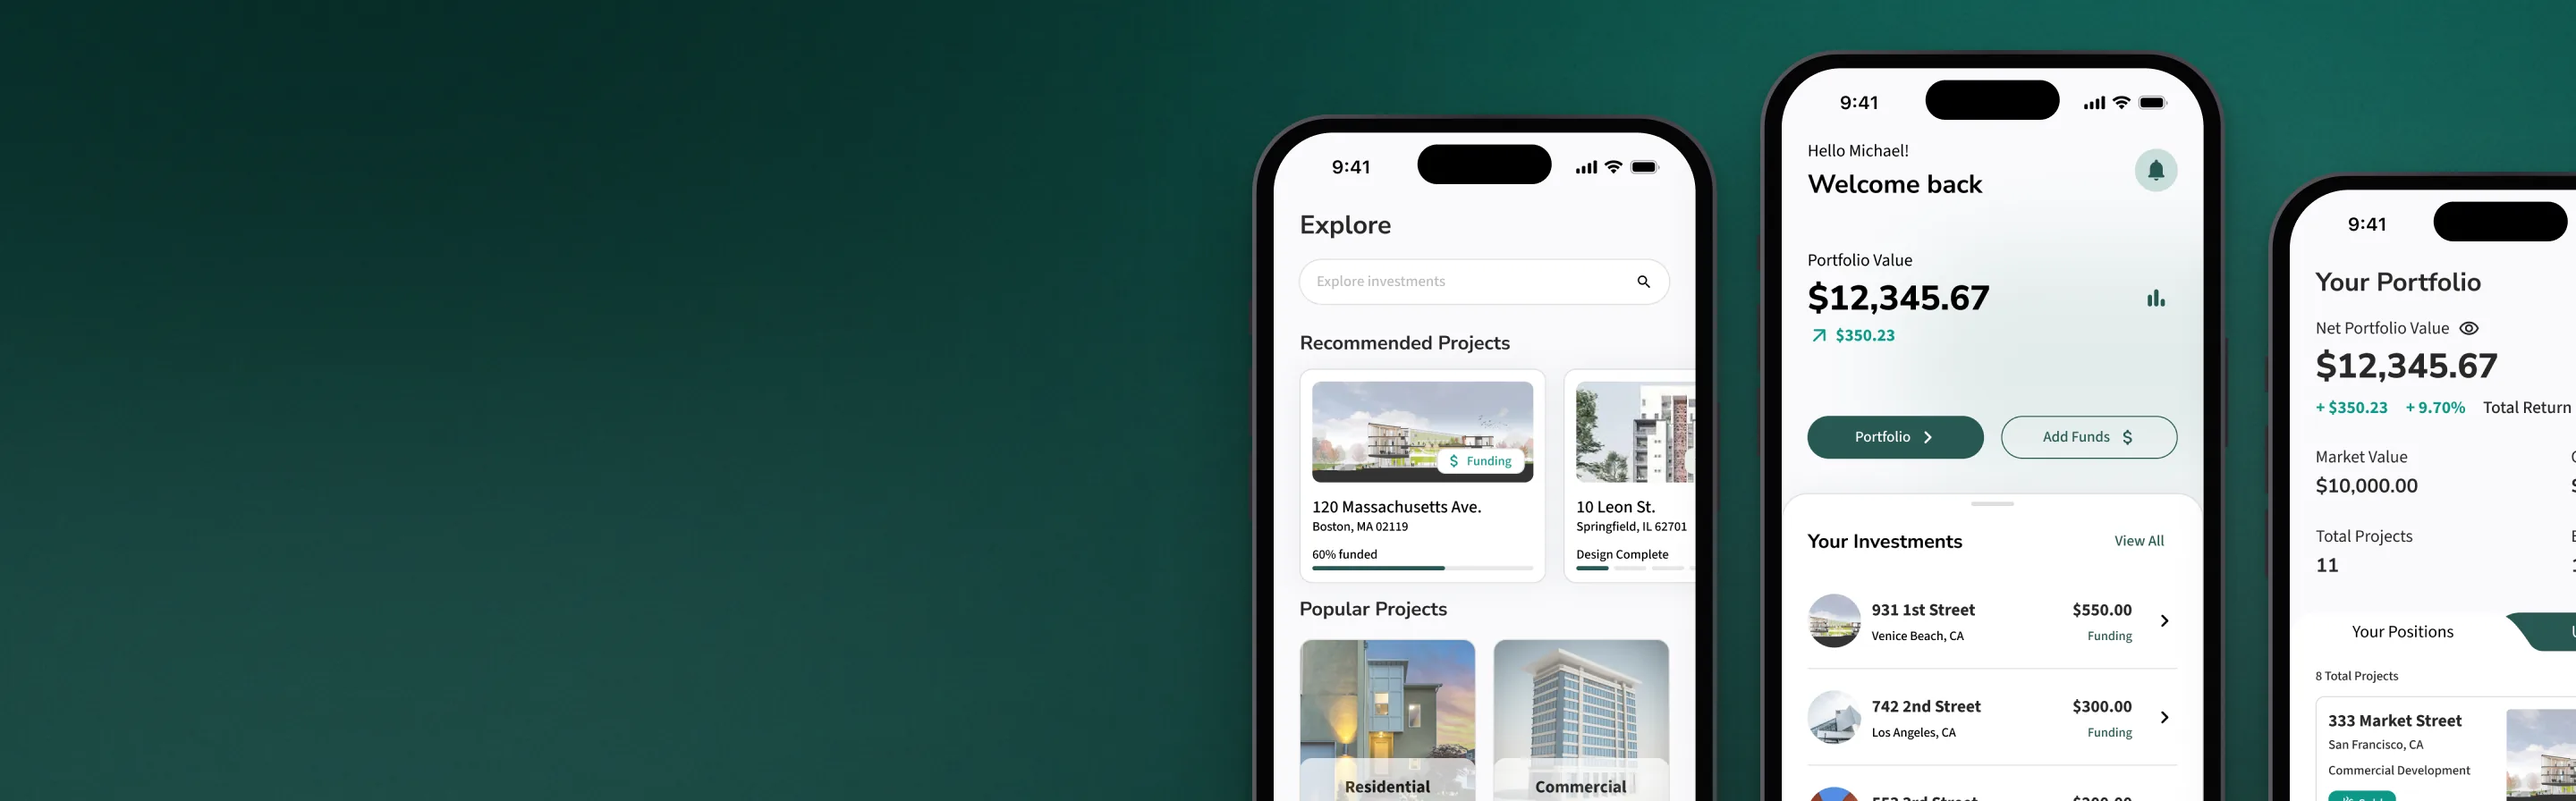
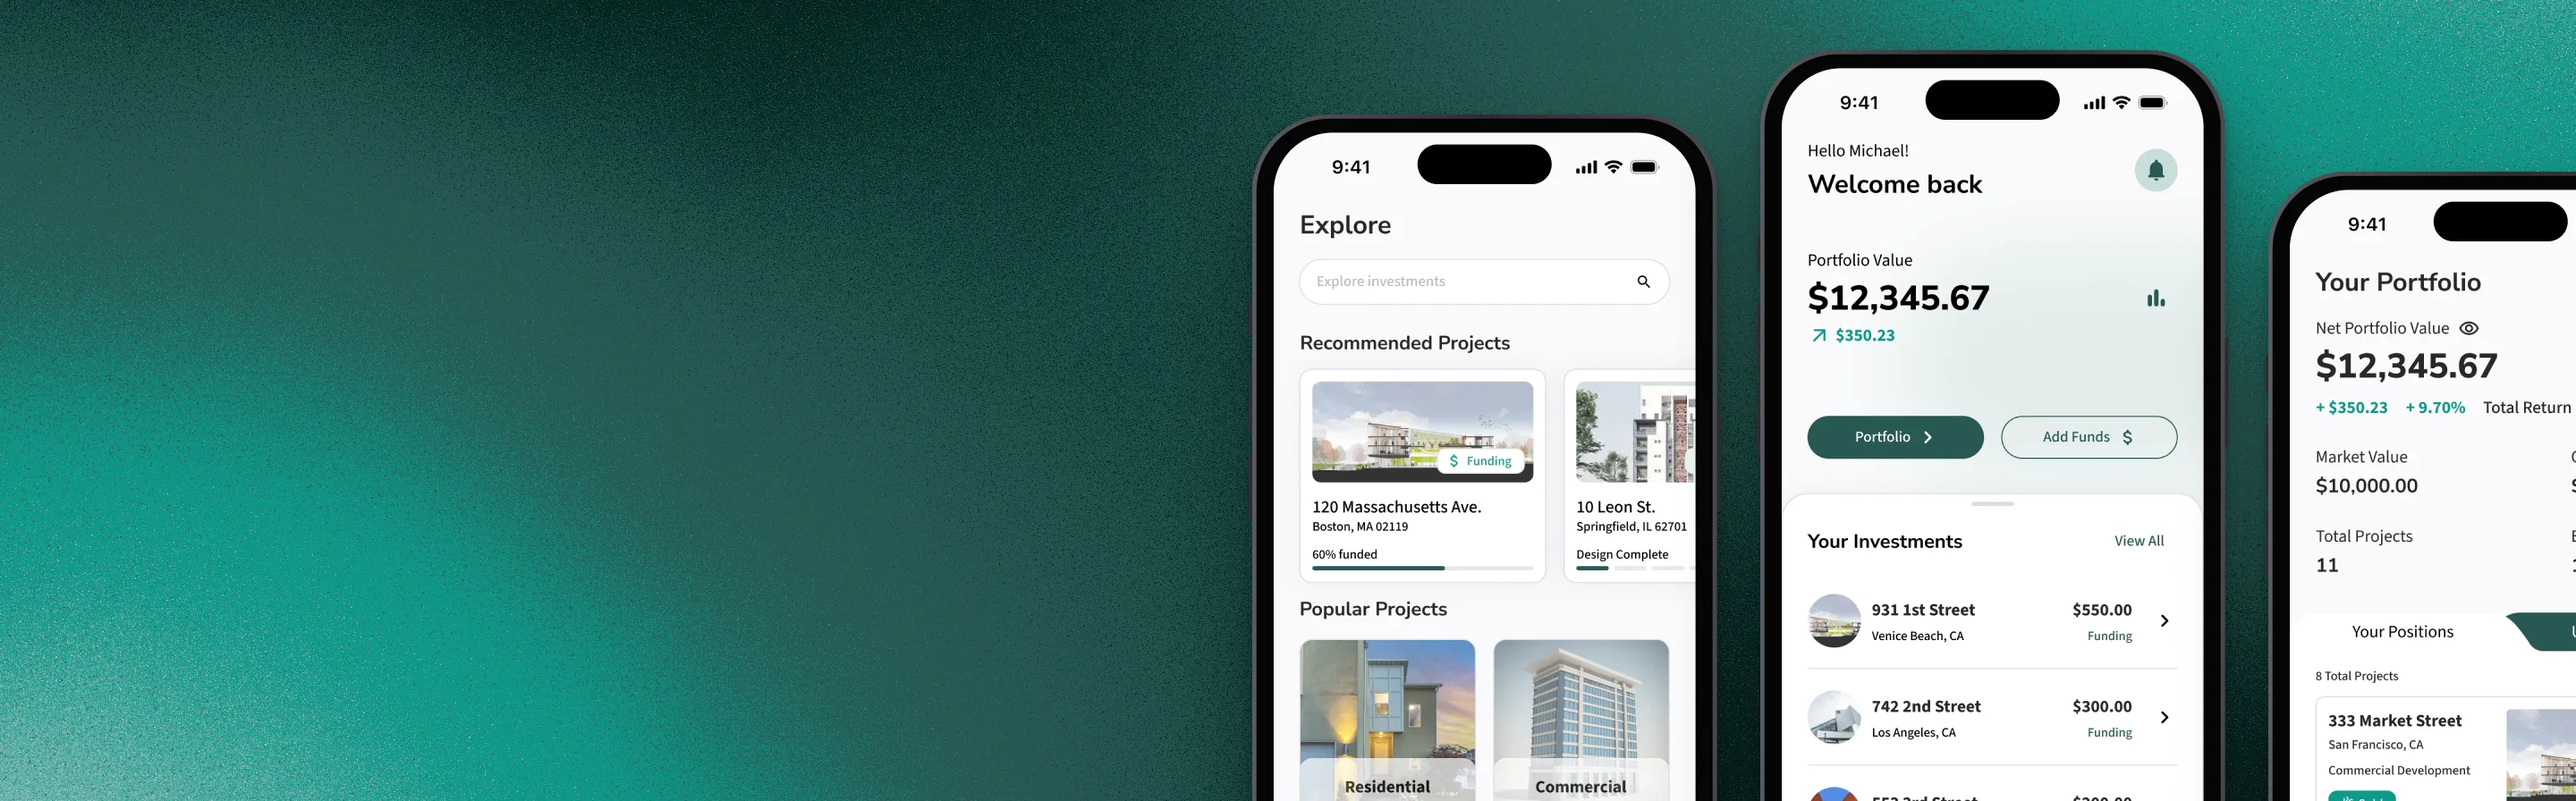
feat: grain backgrounds and simpler copy for 3 Stones page

diff --git a/src/app/data/projects.ts b/src/app/data/projects.ts
@@ -447,13 +447,7 @@ export const projects: Project[] = [
                 {
                     kind: "text",
                     parts: [
-                        "Sign-in runs on Supabase Auth. I kept the session and access token in a React context, so any screen could call the Go backend as the signed-in investor, and Supabase renewed expired tokens on its own.",
-                    ],
-                },
-                {
-                    kind: "text",
-                    parts: [
-                        "The home screen opens on the investor's portfolio value and their investments. Search starts from a bar on Explore, goes to a Go endpoint that queries projects, and lists the results on their own screen. Along the way I wrote the endpoints for investing in a project and loading an investor's profile, and wrapped every API route in a typed function the frontend could call.",
+                        "I built sign-in, the home screen and search, from the screens down to the backend. Home is the first thing investors see, with their portfolio value and how each investment is doing. Search is how they find new projects from the Explore tab.",
                     ],
                 },
                 {
